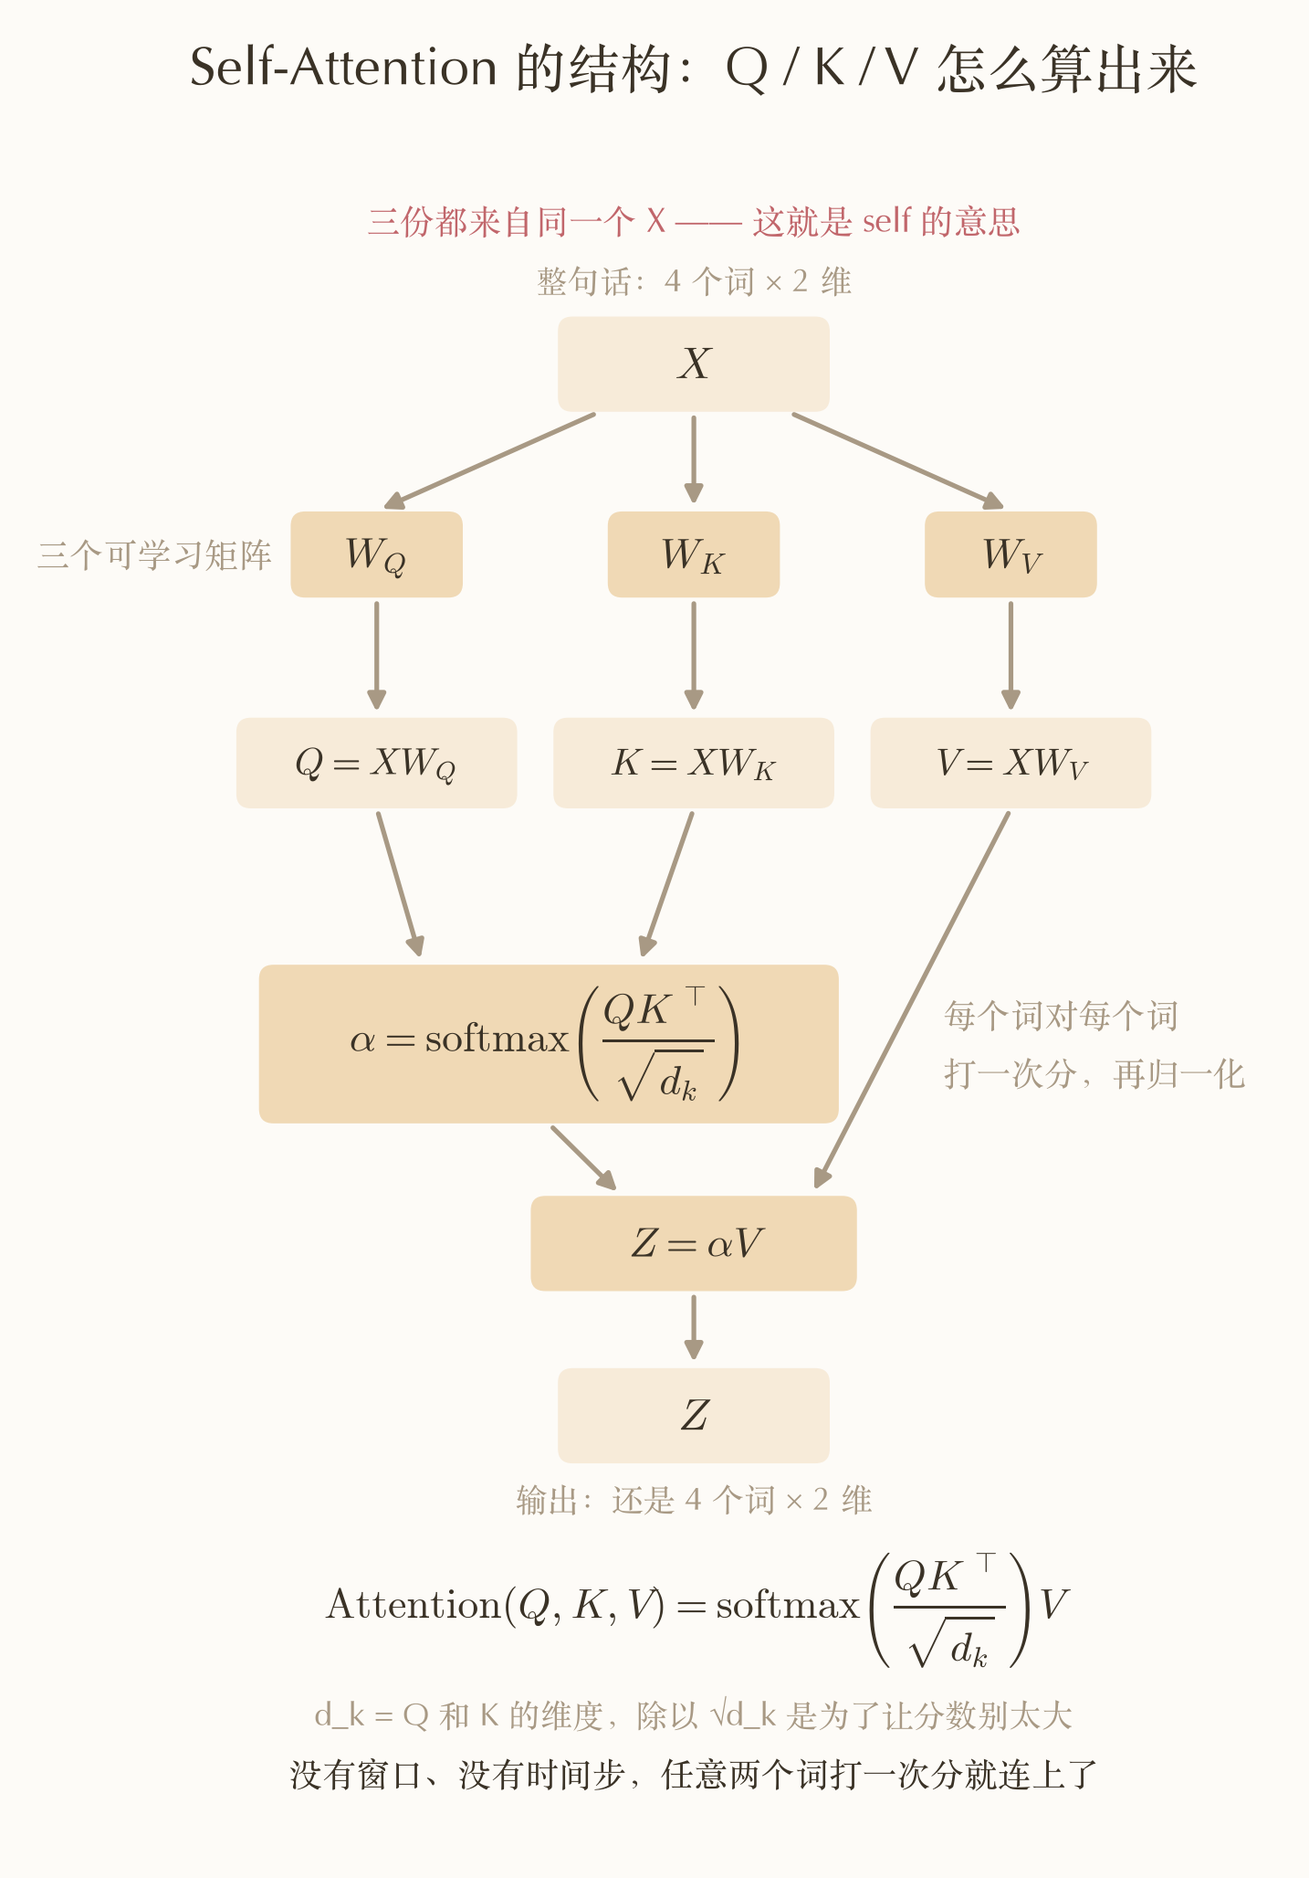
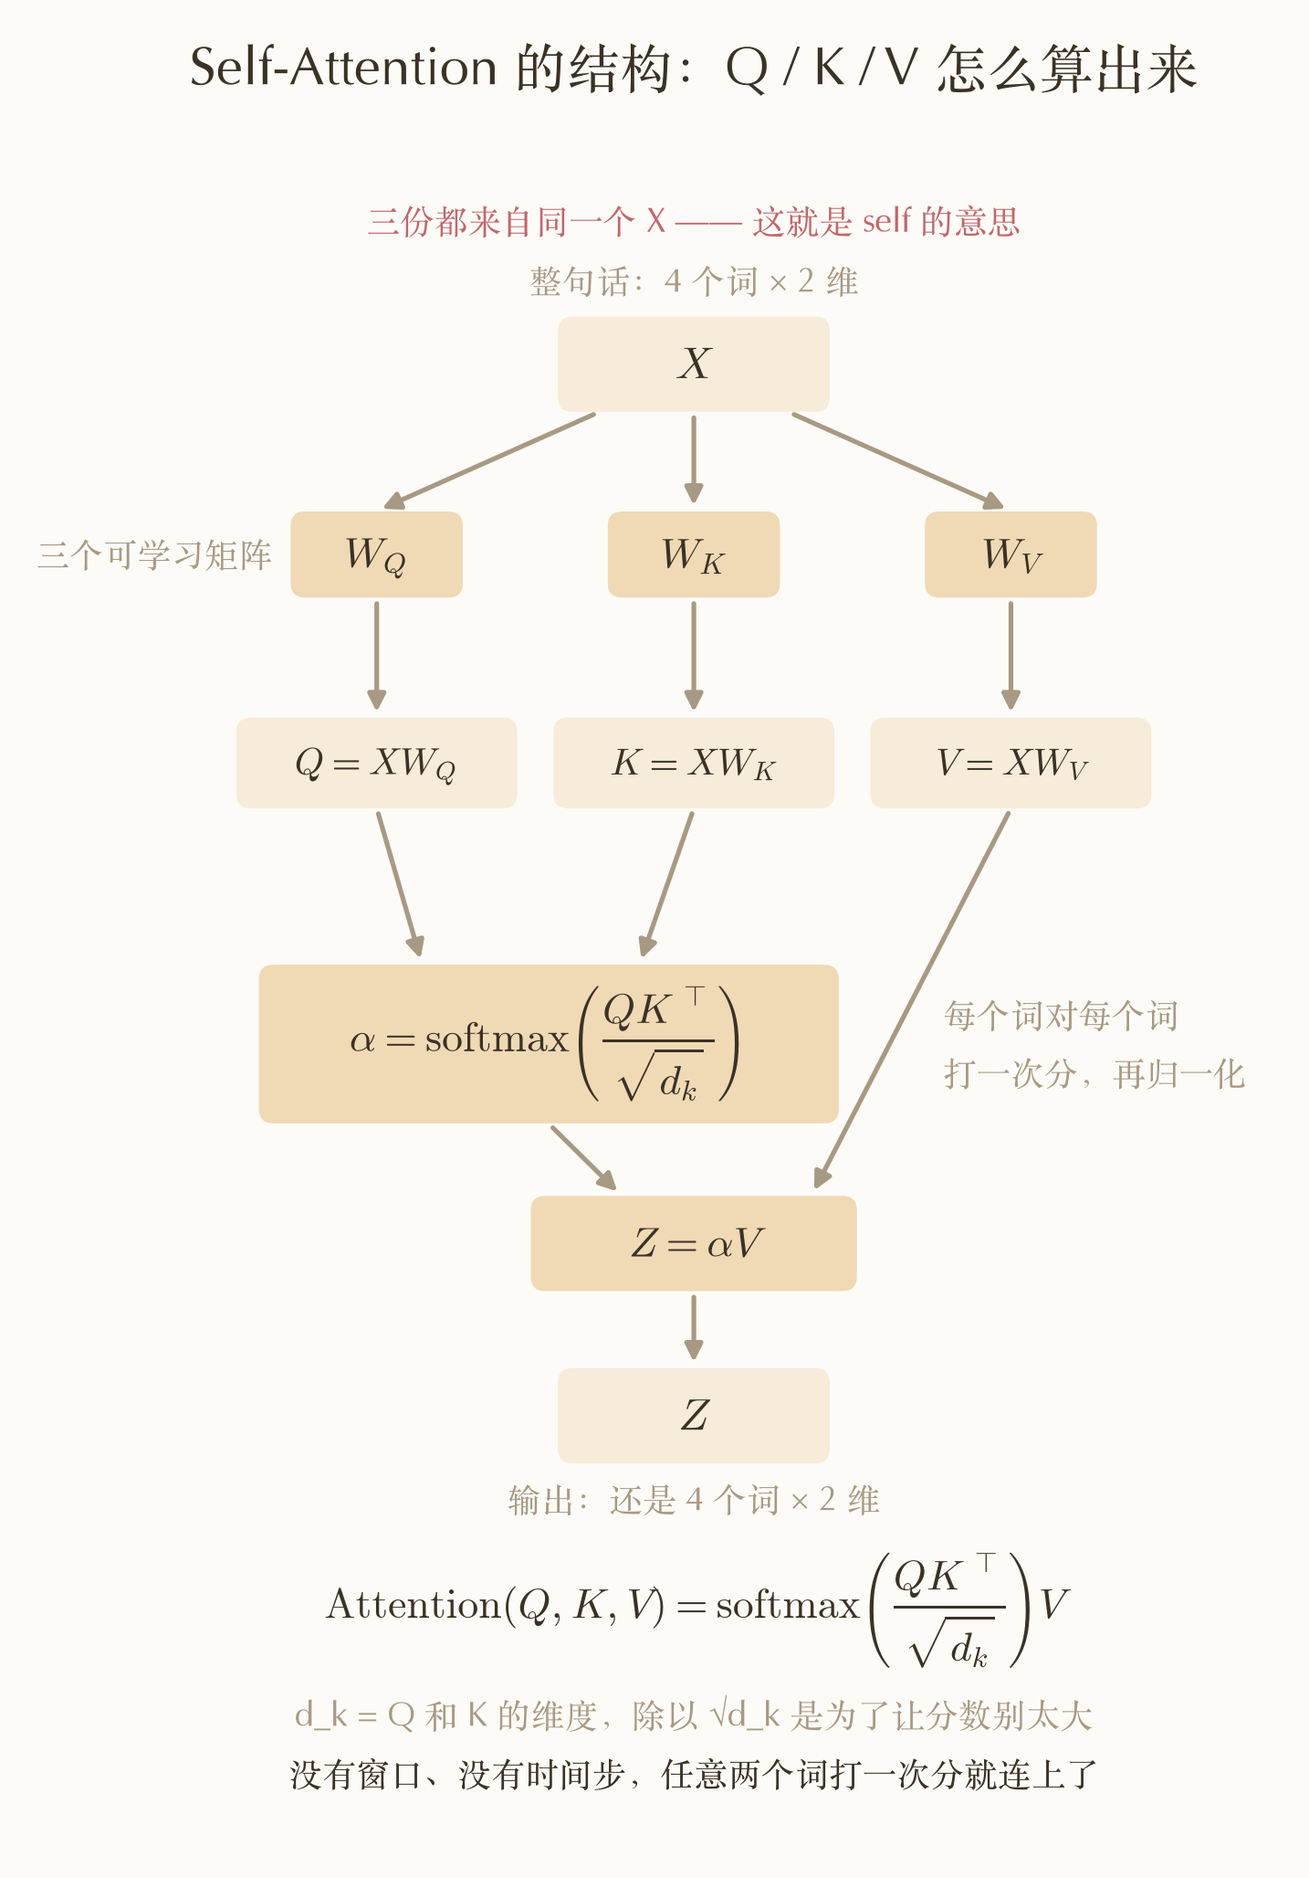
重定排版比例：正文更宽、图更小、相邻图并排
上一版把图内字硬对齐到正文 17px，图被撑大到每张独占一行，页面瘦而散。

- 图内正文级字 17px → 15px。图里的文字是标注不是阅读流，惯例就该比正文小一号。
  图随之小 12%，中位宽从 598px 降到 529px
- 正文栏 44rem → 48rem（768px ≈ 45 字/行），图区 60rem → 68rem（容两张并排）
- 相邻的图自动配对成一行，顶对齐；略超页面宽时按比例缩到 88% 塞进去，再超才各自独占
- RN01 现在 4 组并排，纵向长度少了约三分之一

diff --git a/notes/rn01-attention/index.html b/notes/rn01-attention/index.html
@@ -43,7 +43,7 @@
 <p>例句：<strong>很高兴认识你爱玩的茂茂雨</strong><br/>
 切成 4 个词：<code>很高兴</code> 、<code>认识你</code> 、<code>爱玩的</code> 、<code>茂茂雨</code><br/>
 每个词用一个 2 维向量表示（随便像下面这样设一个），整句话就是一个 <strong>4 × 2 的矩阵</strong>:</p>
-<figure class="" style="--w:518px"><img alt="01_x_matrix.png" height="1037" loading="lazy" src="../../assets/img/rn01-attention/01_x_matrix.png" width="931"/><button aria-label="放大看" class="zoom">⤢</button></figure>
+<figure class="" style="--w:457px"><img alt="01_x_matrix.png" height="1037" loading="lazy" src="../../assets/img/rn01-attention/01_x_matrix.png" width="931"/><button aria-label="放大看" class="zoom">⤢</button></figure>
 <h3 id="cnn-处理此序列的情况">CNN 处理此序列的情况</h3>
 <p>但 PyTorch 的 <code>Conv1d</code> 要的是 <code>(batch, 每个词的向量维度, 词的个数)</code>，<strong>需要转置一下</strong>。卷积核设为 <code>conv = nn.Conv1d(n, n, kernel_size=3, padding=1, bias=False)</code></p>
 <blockquote>
@@ -53,21 +53,21 @@ kernel_size=3：窗口一次盖 3 个位置。<br/>
 padding=1：两端各补 1 列 0，让 4 个词进、还是 4 个数出。<br/>
 bias=False：算完不再加常数项。</p>
 </blockquote>
-<figure class="" style="--w:544px"><img alt="01_conv_walkthrough.png" height="1808" loading="lazy" src="../../assets/img/rn01-attention/01_conv_walkthrough.png" width="1321"/><button aria-label="放大看" class="zoom">⤢</button></figure>
-<figure class="" style="--w:700px"><img alt="04_number_tower.png" height="2060" loading="lazy" src="../../assets/img/rn01-attention/04_number_tower.png" width="1572"/><button aria-label="放大看" class="zoom">⤢</button></figure>
+<div class="figrow" style="--rw:1088px"><figure class="" style="--w:465px"><img alt="01_conv_walkthrough.png" height="1808" loading="lazy" src="../../assets/img/rn01-attention/01_conv_walkthrough.png" width="1321"/><button aria-label="放大看" class="zoom">⤢</button></figure><figure class="" style="--w:597px"><img alt="04_number_tower.png" height="2060" loading="lazy" src="../../assets/img/rn01-attention/04_number_tower.png" width="1572"/><button aria-label="放大看" class="zoom">⤢</button></figure></div>
+
 <p>如果你同时关注一下<code>第二层的“10”</code>和<code>第三层的“3”</code>，往回追溯，你就会发现<code>第二层的“10”</code>仅包含了<code>认识你</code> 、<code>爱玩的</code> 、<code>茂茂雨</code>，而只有到<code>第三层的“3”</code>才完全得到了这组序列的全部信息。</p>
 <p><strong>在这个场景下，感受野和梯度能否传达其实是一回事</strong>。<code>很高兴</code> 不在 <code>茂茂雨</code> 的感受野里，意思就是不管 <code>很高兴</code> 怎么改，<code>茂茂雨</code> 那个输出都纹丝不动——这正是“梯度等于 0”。所以 CNN 的痛点就在于“<strong>层数低，感受野小，够不到</strong>”。</p>
 <p>但反过来不成立：够得到不等于传得动。下面的 RNN 就是够得到但传不动的典型。<br/>
 然而，想要层数少，就得增加卷积核的大小。那放到真实规模上是个什么概念？按 GPT-2 那种配置粗算一下：序列 2048 个词、词向量 768 维、核宽还是 3。<strong>感受野每层只往外扩 1 个词，要够到最远那一个得堆 1024 层</strong>，参数量约 18 亿、一次前向约 $3.7\times10^{12}$ 次乘加。</p>
 <h3 id="rnn-处理此序列的情况">RNN 处理此序列的情况</h3>
 <p>看一下RNN的网络结构：</p>
-<figure class="" style="--w:555px"><img alt="00_rnn_overview.png" height="1678" loading="lazy" src="../../assets/img/rn01-attention/00_rnn_overview.png" width="1246"/><button aria-label="放大看" class="zoom">⤢</button></figure>
+<figure class="" style="--w:489px"><img alt="00_rnn_overview.png" height="1678" loading="lazy" src="../../assets/img/rn01-attention/00_rnn_overview.png" width="1246"/><button aria-label="放大看" class="zoom">⤢</button></figure>
 <p>这是个很漂亮的结构，而且通过一个循环迭代的方式，就能将词与词之间的联系训练更新到同一套反复使用参数$W_x$和$W_h$里面，<br/>
 真实推理的时候，只需要一份 RNN 单元，加上一个来自上一个词的记忆缓存就够了。发现它还有一个问题：batch 维度其实是能并行的，不能并行的是<strong>时间步</strong>——第 $t$ 步必须等第 $t-1$ 步的 $h$ 算完才能开始。句子多长就得串行多少步，GPU 在这件事上使不上劲。<br/>
 再看看前面搜到的“信息衰减”是怎么回事，瞅一眼 $\tanh$ 及其导数的图像：</p>
-<figure class="" style="--w:655px"><img alt="03_tanh_squash.png" height="2402" loading="lazy" src="../../assets/img/rn01-attention/03_tanh_squash.png" width="1767"/><button aria-label="放大看" class="zoom">⤢</button></figure>
-<figure class="" style="--w:598px"><img alt="01_one_step.png" height="1943" loading="lazy" src="../../assets/img/rn01-attention/01_one_step.png" width="1397"/><button aria-label="放大看" class="zoom">⤢</button></figure>
-<figure class="" style="--w:711px"><img alt="02_unroll.png" height="1365" loading="lazy" src="../../assets/img/rn01-attention/02_unroll.png" width="1662"/><button aria-label="放大看" class="zoom">⤢</button></figure>
+<div class="figrow" style="--rw:1088px"><figure class="" style="--w:555px"><img alt="03_tanh_squash.png" height="2402" loading="lazy" src="../../assets/img/rn01-attention/03_tanh_squash.png" width="1767"/><button aria-label="放大看" class="zoom">⤢</button></figure><figure class="" style="--w:507px"><img alt="01_one_step.png" height="1943" loading="lazy" src="../../assets/img/rn01-attention/01_one_step.png" width="1397"/><button aria-label="放大看" class="zoom">⤢</button></figure></div>
+
+<figure class="" style="--w:628px"><img alt="02_unroll.png" height="1365" loading="lazy" src="../../assets/img/rn01-attention/02_unroll.png" width="1662"/><button aria-label="放大看" class="zoom">⤢</button></figure>
 在以上这个例子的计算当中，可以看出当出现接近+-1的h数值时，会得到一个非常小的导数值0.015，但是好像也没有小到会让信息损失🤔，进一步看看反向传播时候的计算情况：
 先把用到的符号列一下，免得自己都看糊涂。
 
@@ -227,10 +227,10 @@ bias=False：算完不再加常数项。</p>
 <p>$W_Q$、$W_K$、$W_V$ 的含义：三个可学习矩阵，把同一个词分别投影成「拿去问的」「等着被问的」「被选中后交出去的」三份表示，形状都是 $(d, d_k)$，读作「$d$ 维进、$d_k$ 维出」，<strong>和句子多长无关</strong>。</p>
 <h4>模型框架</h4>
 <p>在这一层网络中，$Z = \alpha V = \alpha X W_V$ 就完成了 4 个词之间的全连接。</p>
-<figure class="" style="--w:696px"><img alt="00b_attn_connect.png" height="1538" loading="lazy" src="../../assets/img/rn01-attention/00b_attn_connect.png" width="1502"/><button aria-label="放大看" class="zoom">⤢</button></figure>
-<figure class="" style="--w:532px"><img alt="00a_attn_structure.png" height="2056" loading="lazy" src="../../assets/img/rn01-attention/00a_attn_structure.png" width="1434"/><button aria-label="放大看" class="zoom">⤢</button></figure>
-<figure class="" style="--w:508px"><img alt="02a_scores.png" height="2485" loading="lazy" src="../../assets/img/rn01-attention/02a_scores.png" width="1369"/><button aria-label="放大看" class="zoom">⤢</button></figure>
-<figure class="" style="--w:600px"><img alt="02b_softmax.png" height="2560" loading="lazy" src="../../assets/img/rn01-attention/02b_softmax.png" width="1509"/><button aria-label="放大看" class="zoom">⤢</button></figure>
+<div class="figrow" style="--rw:1088px"><figure class="" style="--w:602px"><img alt="00b_attn_connect.png" height="1538" loading="lazy" src="../../assets/img/rn01-attention/00b_attn_connect.png" width="1502"/><button aria-label="放大看" class="zoom">⤢</button></figure><figure class="" style="--w:460px"><img alt="00a_attn_structure.png" height="2056" loading="lazy" src="../../assets/img/rn01-attention/00a_attn_structure.png" width="1434"/><button aria-label="放大看" class="zoom">⤢</button></figure></div>
+
+<div class="figrow" style="--rw:1003px"><figure class="" style="--w:448px"><img alt="02a_scores.png" height="2485" loading="lazy" src="../../assets/img/rn01-attention/02a_scores.png" width="1369"/><button aria-label="放大看" class="zoom">⤢</button></figure><figure class="" style="--w:529px"><img alt="02b_softmax.png" height="2560" loading="lazy" src="../../assets/img/rn01-attention/02b_softmax.png" width="1509"/><button aria-label="放大看" class="zoom">⤢</button></figure></div>
+
 <blockquote>
 <p><strong>既然说到单层的“全连接”，为什么不直接用MLP呢？</strong></p>
 <p>其实仔细观察两者的形式，可以注意到，Self-Attention有个和 MLP 的根本区别：<strong>$\alpha$ 是算出来的，不是学出来的</strong>。MLP 里 $y_i = \sum_j W_{ij} x_j$（此处省略一下激活函数），「位置 $j$ 对位置 $i$ 贡献多少」是 $W_{ij}$ 这个参数，训练完就是常数——输入变了输出当然跟着变，但那个<strong>系数</strong>不变。这里的 $\alpha_{ij}$ 本身就由 $X$ 现算，换一句话，整张系数表都换了。</p>

diff --git a/assets/style.css b/assets/style.css
@@ -19,8 +19,11 @@
   --sans:"Inter","PingFang SC","Hiragino Sans GB","Microsoft YaHei",system-ui,sans-serif;
   --mono:"IBM Plex Mono",ui-monospace,SFMono-Regular,Menlo,Consolas,monospace;
 
-  --measure:44rem;       /* 正文栏宽 ≈ 40 个汉字/行 */
-  --wide:60rem;          /* 图可以溢出到这个宽度 */
+  /* 排版比例：中文一行 40~46 个字最舒服，48rem ÷ 17px ≈ 45 字。
+     图区比正文栏宽一档，容得下两张并排。 */
+  --measure:48rem;       /* 正文栏 768px ≈ 45 字/行 */
+  --wide:68rem;          /* 图区 1088px，= 两张并排 + 间距 */
+  --fig-gap:1.6rem;      /* 并排图之间 */
   --fs:1.0625rem;        /* 17px */
   --lh:1.85;
 }
@@ -157,10 +160,26 @@ figure img{width:100%;max-width:100%;max-height:124vh;height:auto;
    这是相对小红书卡片的红利，别浪费。 */
 /* ⚠ 别用 transform:translateX(-50%) 居中：下面淡入动画的 transform:none 会覆盖它，
    图会整个跑到右边。用 margin 算偏移，和 transform 不打架。 */
-/* 每张图的 --w 由 build.py 按「原图宽 × 0.47」算好写进 inline style，
-   和出图时兜底字号用的宽度是同一个数。别在这里改宽度，会让字号底线失效。 */
-figure{--w:704px;width:min(100% , var(--w));margin-inline:auto}
-figure.wide{width:min(100vw - 3rem, var(--w));margin-left:calc(50% - min(100vw - 3rem, var(--w)) / 2)}
+/* 每张图的 --w 由 save_web() 按「图内正文级字 → 页面 15px」反推，写进 inline style。
+   别在这里另算宽度，会破坏图内文字和正文的基准关系。 */
+figure{--w:640px;width:min(100%,var(--w));margin-inline:auto}
+figure.wide{width:min(100vw - 3rem,var(--w));margin-left:calc(50% - min(100vw - 3rem,var(--w)) / 2)}
+
+/* 并排：相邻两张图放得下就并成一行。按各自的 --w 分配宽度，
+   不是硬等分 —— 一张宽一张窄时等分会把窄的那张撑虚。 */
+.figrow{
+  /* 顶对齐：读者从上往下扫，两张图的标题要齐。底对齐会让矮的那张沉到下面去 */
+  display:flex;gap:var(--fig-gap);align-items:flex-start;justify-content:center;
+  width:min(100vw - 3rem,var(--rw,var(--wide)));
+  margin:2.4rem 0 2.4rem calc(50% - min(100vw - 3rem,var(--rw,var(--wide))) / 2);
+}
+.figrow figure{margin:0;flex:0 1 var(--w);width:auto;min-width:0}
+.figrow figure img{width:100%}
+@media (max-width:46rem){
+  .figrow{display:block;width:100%;margin-left:0}
+  .figrow figure{width:min(100%,var(--w));margin:0 auto 1.6rem}
+  .figrow figure:last-child{margin-bottom:0}
+}
 figcaption{
   font-family:var(--mono);font-size:.72rem;line-height:1.6;letter-spacing:.03em;
   color:var(--mute);text-align:center;margin-top:.7rem;

diff --git a/build.py b/build.py
@@ -25,7 +25,7 @@ except ImportError:
 from bs4 import BeautifulSoup
 from PIL import Image
 
-WEB_W_COL = 704          # 正文栏宽（px），超过它 + 60 的图才挣脱居中
+WEB_W_COL = 768          # 正文栏宽（px），和 style.css 的 --measure 对齐
 
 
 def web_width(src_path, w_px, h_px):
@@ -102,7 +102,7 @@ def render_body(md_text, imgdir, rel_img):
         except Exception:
             iw, ih = 0, 0
         disp = web_width(p, iw, ih)
-        cls = "wide" if disp > WEB_W_COL + 60 else ""   # 只比正文栏宽一点点就别挣脱了，错位不值得
+        cls = "wide" if disp > WEB_W_COL + 60 else ""   # 只比正文栏宽一点点就别挣脱，错位不值得
         figs.append((p.name, cls))
         return (f'<figure class="{cls}" style="--w:{disp}px">'
                 f'<img src="{rel_img}/{p.name}" alt="{htmlmod.escape(name.strip())}" '
@@ -132,6 +132,40 @@ def render_body(md_text, imgdir, rel_img):
     for par in soup.find_all("p"):
         if not par.get_text(strip=True) and not par.find(["img", "figure"]):
             par.decompose()
+    # 相邻的图两两配对成一行。宽度和略超页面时按比例缩一点塞进去 ——
+    # 缩到 88% 时图内字从 15px 降到 13.2px，还在可读范围，比让两张图各占一屏强。
+    # 超过这个就别硬并，各自独占。
+    PAGE_W, GAP, SQUEEZE = 1088, 26, 0.88
+    figs = soup.find_all("figure")
+    i = 0
+    while i < len(figs) - 1:
+        a, b = figs[i], figs[i + 1]
+        # 必须是紧挨着的兄弟（中间没有正文），否则并排会打断行文
+        sib = a.find_next_sibling()
+        while sib is not None and not str(sib).strip():
+            sib = sib.find_next_sibling()
+        if sib is not b:
+            i += 1
+            continue
+        get = lambda t: int(re.search(r"--w:(\d+)px", t.get("style") or "--w:640px").group(1))
+        wa, wb = get(a), get(b)
+        total = wa + wb + GAP
+        if total <= PAGE_W / SQUEEZE:
+            k = min(1.0, (PAGE_W - GAP) / (wa + wb))
+            a["style"] = f"--w:{round(wa * k)}px"
+            b["style"] = f"--w:{round(wb * k)}px"
+            row = soup.new_tag("div", attrs={
+                "class": "figrow",
+                "style": f"--rw:{round((wa + wb) * k) + GAP}px"})
+            a.insert_before(row)
+            row.append(a.extract())
+            row.append(b.extract())
+            for t in (a, b):
+                t["class"] = [c for c in (t.get("class") or []) if c != "wide"]
+            i += 2
+        else:
+            i += 1
+
     # 表格加横向滚动容器
     for tb in soup.find_all("table"):
         wrap = soup.new_tag("div", attrs={"class": "table-wrap"})

diff --git a/README.md b/README.md
@@ -81,26 +81,38 @@ VLA_WEB=1 python run-all.py    # 网页版 → out_web/ （保持原字号、边
 会把太小的字强行放大；网页上图是 700~960px 显示、还能点开看原图，不需要放大，
 放大了反而笨重。规则写在 `Lab/_shared/themes.py` 顶部。
 
-每张图在页面上显示多宽，是**由图内字号反推的**，不用手工指定：
+### 排版比例
+
+| 量 | 值 | 为什么 |
+|---|---|---|
+| 正文栏 | 48rem / 768px | ÷17px ≈ 45 字/行。中文 40~46 字最舒服，英文那套 45~75 字符照搬会挤 |
+| 图区 | 68rem / 1088px | 容得下两张图并排 + 间距 |
+| 图内正文级字 | 15px | 正文 17px 的 0.88。**图里的文字是标注不是阅读流**，惯例就该小一号 |
+| 图内最小字 | ≥ 12px | 图注级 |
+
+每张图显示多宽由图内字号反推，不用手工指定：
 
 ```
-显示宽 = 17px × 原图宽 / (图内正文级字号pt × dpi/72)
+显示宽 = 15px × 原图宽 / (图内正文级字号pt × dpi/72)
 ```
 
-目标是让图里的「正文级」文字贴到页面上正好 17px，和正文一个基准；
-图里比它大的标题、比它小的图注，各自按图内原本的层次呈现。
+这样每张图的「正文级」文字贴到页面上都是 15px，彼此一致、和正文也成比例。
+**不能统一 pt、也不能统一显示宽**：各图画幅从 1000px 到 1950px 不等，同一个 pt
+缩放后差 1.6 倍；统一显示宽又让不同画幅的图字号各异。只有反推才能对齐。
 
-**为什么不能统一 pt、也不能统一显示宽**：各图画幅从 1000px 到 1950px 不等，
-同一个 pt 缩放后差 1.6 倍；而统一显示宽又让不同画幅的图字号各异。
-只有按图内字号反推显示宽，基准才一致。
-
-「正文级字号」取按字符数加权的中位数——图里标题只有一行、主标签有几十个，
+「正文级字号」取按字符数加权的中位数——标题只有一行、主标签有几十个，
 直接取中位数会被零散的大字拉偏。
 
-这个数由 `save_web()` 算出并写进图片同目录的 `_web.json`，`build.py` 读它、
-原样写进 `<figure style="--w:...">`。**页面必须用这个数**，自己另算就破坏了对齐。
+这个数由 `save_web()` 写进图片同目录的 `_web.json`，`build.py` 读了原样用。
+**页面自己另算就破坏了对齐。**
 
-超过正文栏 60px 的图会挣脱居中，其余留在正文栏内。
+### 并排
+
+md 里紧挨着的两张图（中间没有正文），宽度和放得下就自动并成一行，顶对齐。
+略超页面宽时按比例缩一点塞进去，缩到 88% 为止——那时图内字 13.2px，还能读，
+比让两张图各占一屏强。再超就各自独占。
+
+窄屏（< 46rem）并排自动拆回上下排列。
 
 所有图都可以点开看原图。
 
